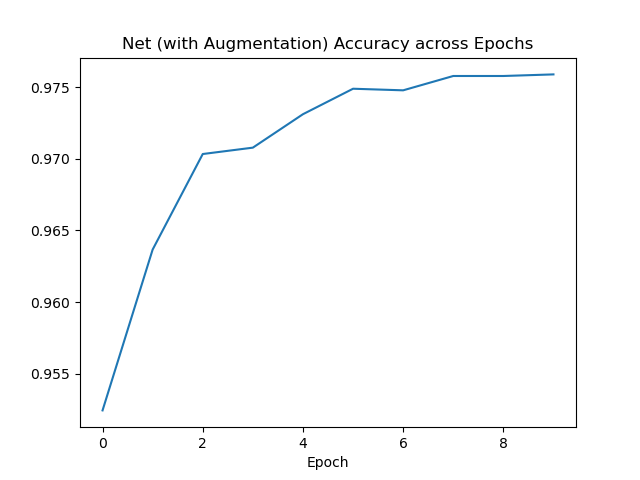
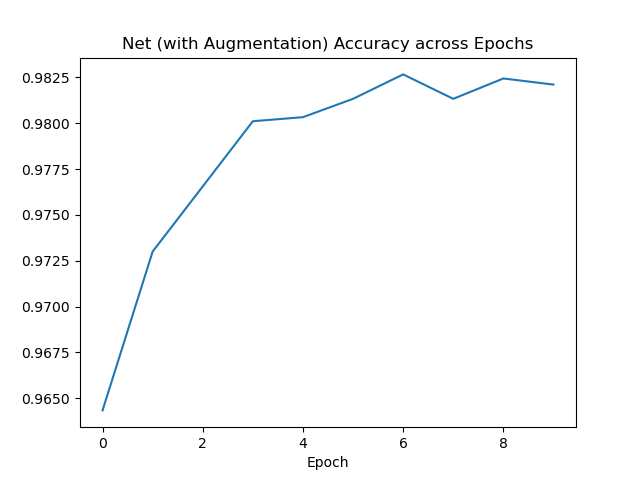
try lowering dropout

diff --git a/main.py b/main.py
@@ -90,8 +90,8 @@ class Net(nn.Module):
         super(Net, self).__init__()
         self.conv1 = nn.Conv2d(in_channels=1, out_channels=8, kernel_size=(3,3), stride=1)
         self.conv2 = nn.Conv2d(8, 8, 3, 1)
-        self.dropout1 = nn.Dropout2d(0.5)
-        self.dropout2 = nn.Dropout2d(0.5)
+        self.dropout1 = nn.Dropout2d(0.3)
+        self.dropout2 = nn.Dropout2d(0.2)
         self.fc1 = nn.Linear(200, 64)
         self.fc2 = nn.Linear(64, 10)
 
